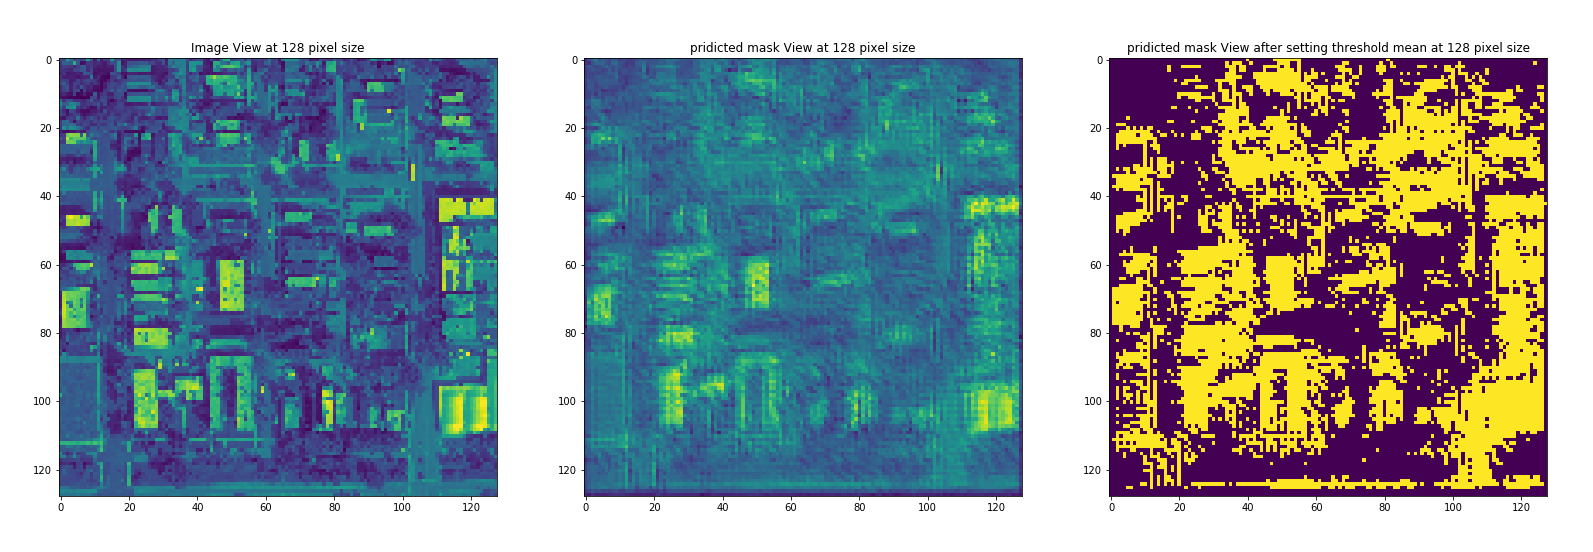
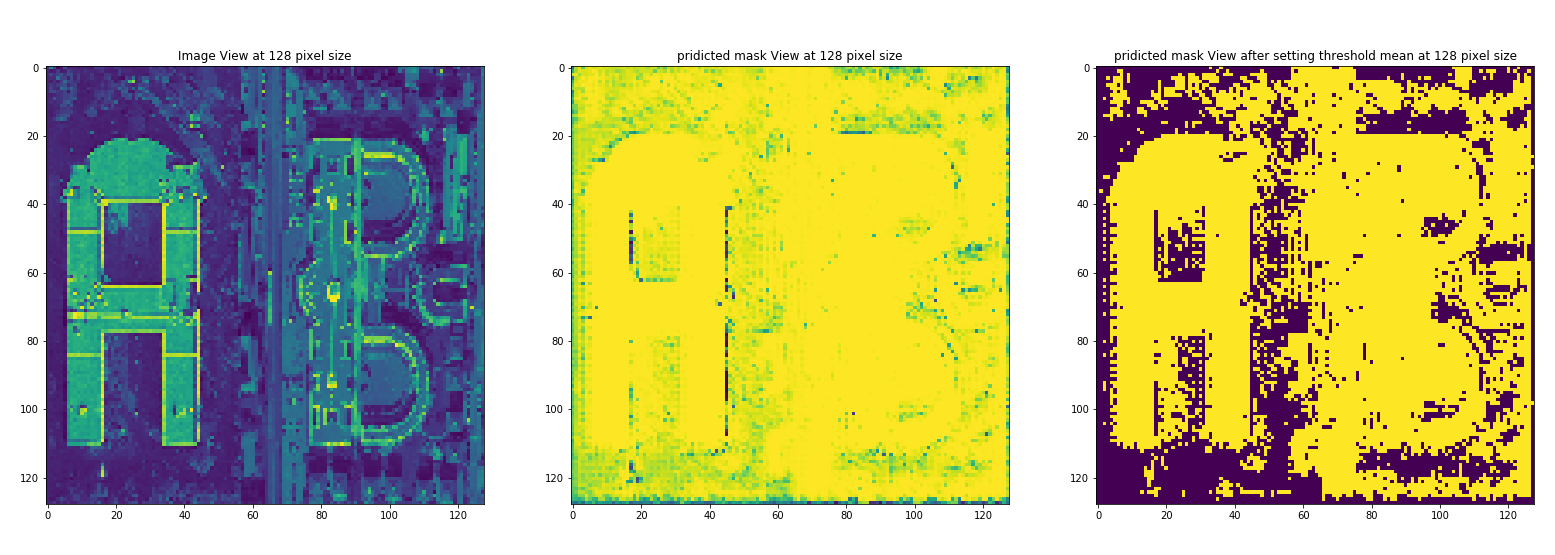
chnages

diff --git a/run_code.py b/run_code.py
@@ -77,3 +77,27 @@ plt.title('pridicted mask View after setting threshold mean at 128 pixel size')
 plt.show()
 
 
+# method to predict mask of new image
+image_path = 'image_sample.png'
+
+def predict_image_mask(image_path, size):
+    img_obj = image.load_img(image_path, grayscale=True).resize(size=[size]*2)
+    arr_obj = image.img_to_array(img_obj)
+    arr_obj = pd.np.expand_dims(arr_obj, axis=0)
+    new_res = model.predict(arr_obj)
+    return arr_obj.reshape([size]*2), new_res.reshape([size]*2)
+ 
+out = predict_image_mask(image_path, 128)
+%matplotlib
+plt.figure(figsize=(1,3))
+plt.subplot(1,3,1)
+plt.imshow(out[0])
+plt.title('Image View at 128 pixel size')
+plt.subplot(1,3,2)
+plt.imshow(out[1])
+plt.title('pridicted mask View at 128 pixel size')
+plt.subplot(1,3,3)
+plt.imshow(out[1]>out[1].mean()*1.02)
+plt.title('pridicted mask View after setting threshold mean at 128 pixel size')
+plt.show()
+
